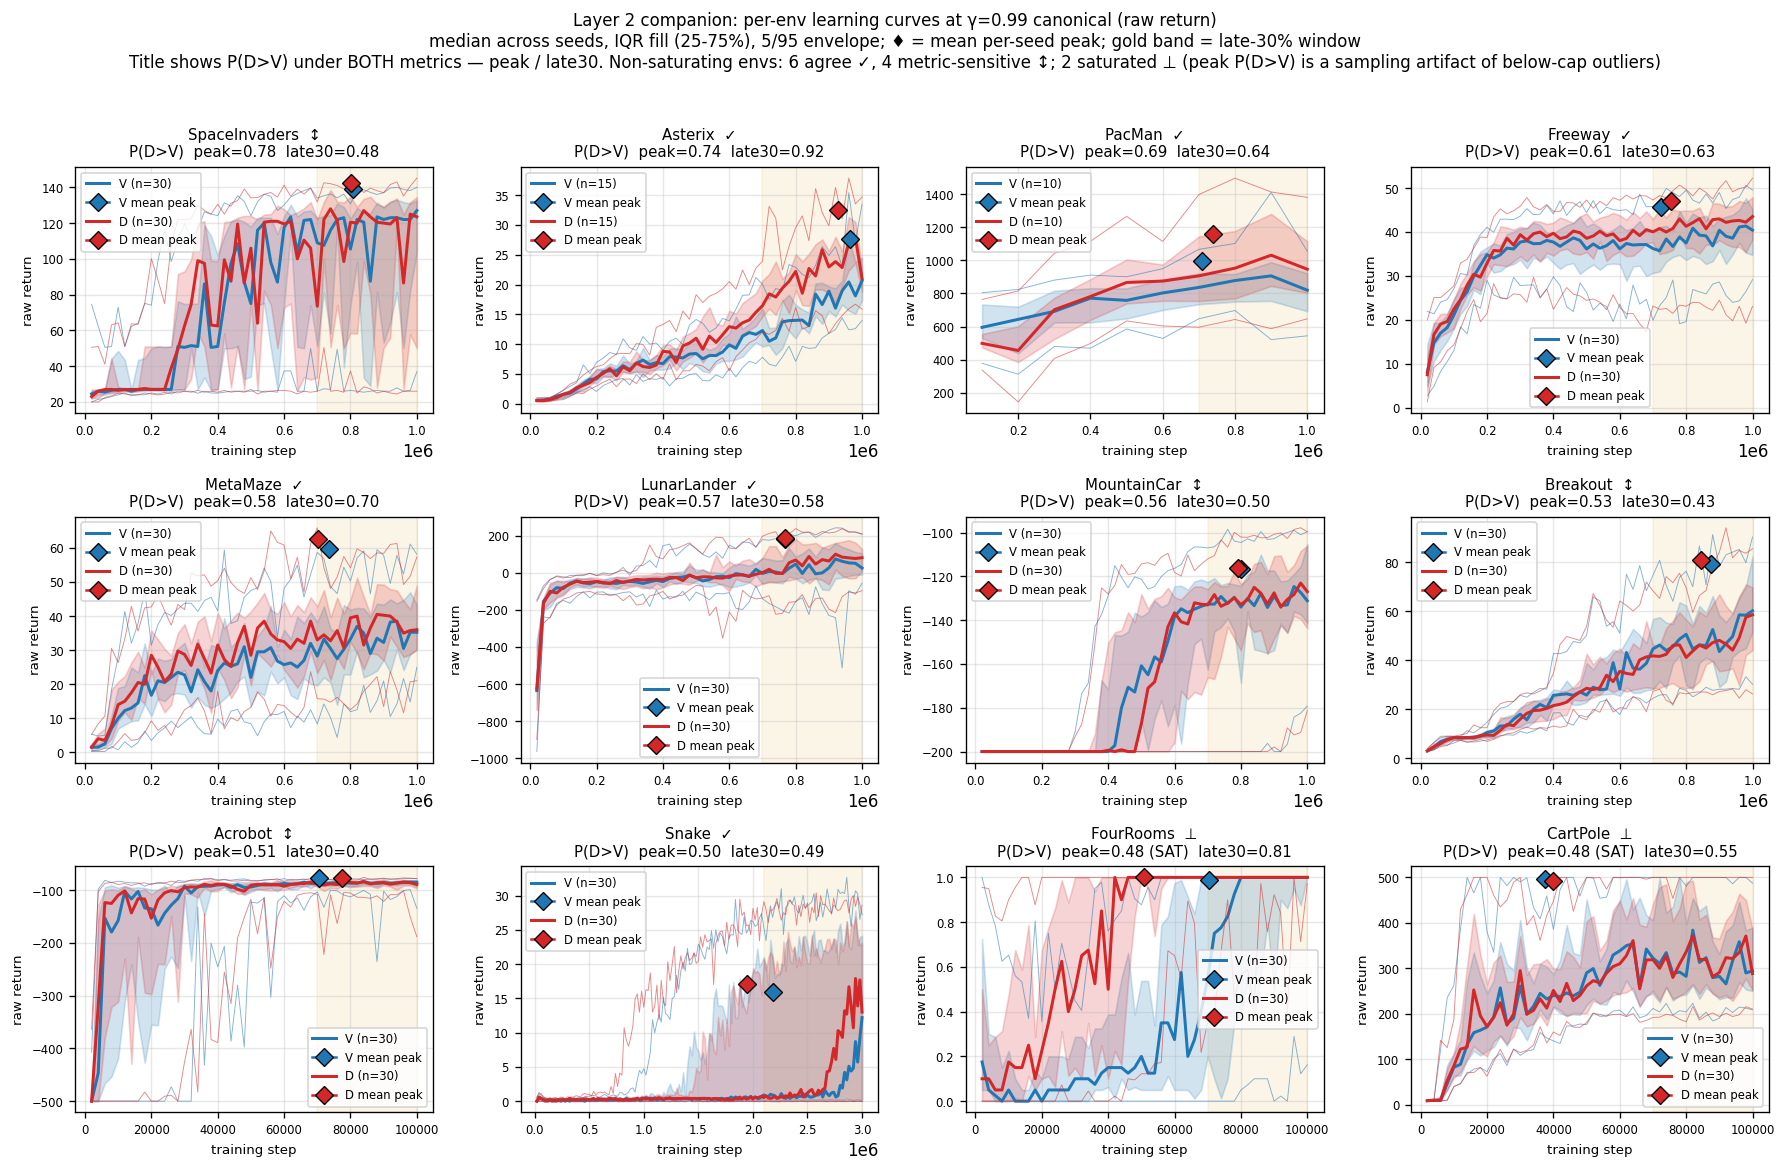
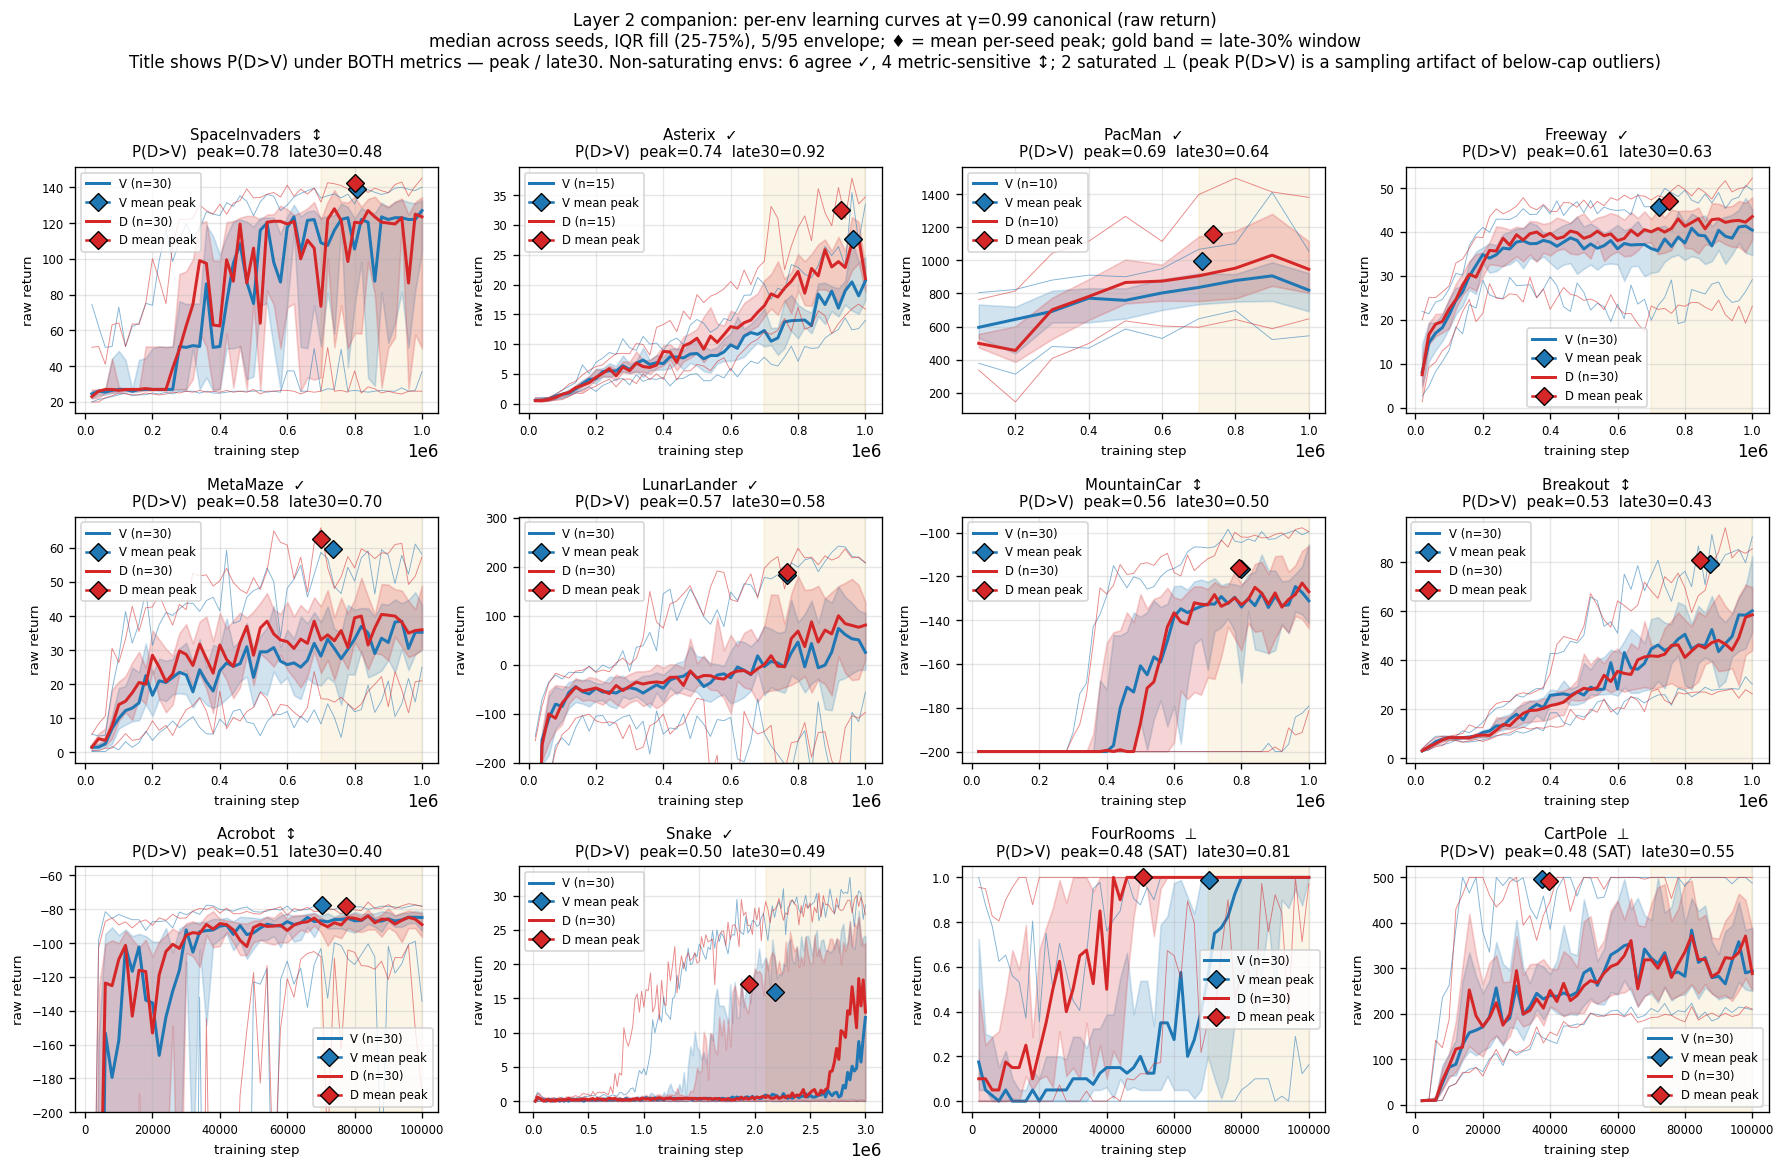
papers/g099_mediation 02b: y-axis floor (-200) for LunarLander + Acrobot
These two envs have large-negative early returns (LL crash penalties;
Acrobot ~-500 until first goal) that auto-scaling let dominate the
y-axis, compressing the informative late-training range. Per-env
Y_MIN_FLOOR clamps the bottom to -200 (top stays auto). Other envs
unchanged.

diff --git a/papers/g099_mediation/scripts/02b_learning_curves.py b/papers/g099_mediation/scripts/02b_learning_curves.py
@@ -46,6 +46,16 @@ OUT_PNG = SCRIPT_DIR.parent / 'figures' / '02b_learning_curves.png'
 
 LATE_WINDOW_FRAC = 0.30
 
+# Per-env y-axis floor (keyed by env_name). LunarLander and Acrobot
+# have large-negative early returns (LL crash penalties; Acrobot's
+# −500-ish until it first reaches the goal) that auto-scaling lets
+# dominate the axis, compressing the informative late-training range.
+# Clamp the bottom; top stays auto.
+Y_MIN_FLOOR: dict[str, float] = {
+    'LunarLander-v2-jax': -200.0,
+    'Acrobot-v1': -200.0,
+}
+
 
 def _per_burst_raw_mean(mc_raw_eps_list) -> np.ndarray:
     """Convert `mc_return_raw_episodes` (per-burst K eps) into a
@@ -217,6 +227,9 @@ def main() -> None:
         ax.legend(fontsize=7, loc='best')
         ax.tick_params(labelsize=7)
         ax.grid(alpha=0.3)
+        floor = Y_MIN_FLOOR.get(env)
+        if floor is not None:
+            ax.set_ylim(bottom=floor)
 
     for j in range(n, len(axes_flat)):
         axes_flat[j].set_axis_off()
